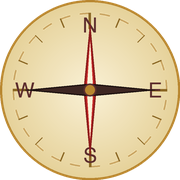
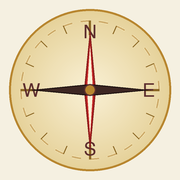
PWA pusula ikonu: krem arka fon + safe-zone
- Tam-bleed cream zemin (#F5F0E1 — uygulamanın paper-cream'iyle aynı)
  ikonun her köşesini doldurur. iOS/Android ikonu beyaz değil krem
  zemin ile gösterir.
- Pusula merkez %75-80 alanda (icon-192/512: %14, apple-touch: %10
  padding). OS ikonu daire/yuvarlak kareye kırpsa bile pusula tam
  görünür kalır (artık 'tam sığmıyordu' sorunu yok).

CACHE_VERSION tk-v1.1.0 → tk-v1.2.0 → eski cache temizlenir.

diff --git a/service-worker.js b/service-worker.js
@@ -9,7 +9,7 @@
  * Sürüm değişince eski cache'ler temizlenir (CACHE_VERSION).
  */
 
-const CACHE_VERSION = 'tk-v1.1.0'; // pusula ikonu güncellendi → cache invalidate
+const CACHE_VERSION = 'tk-v1.2.0'; // pusula ikonu krem arka fon + safe-zone → cache invalidate
 const APP_SHELL_CACHE = `${CACHE_VERSION}-shell`;
 const RUNTIME_CACHE = `${CACHE_VERSION}-runtime`;
 const TILES_CACHE = `${CACHE_VERSION}-tiles`;
